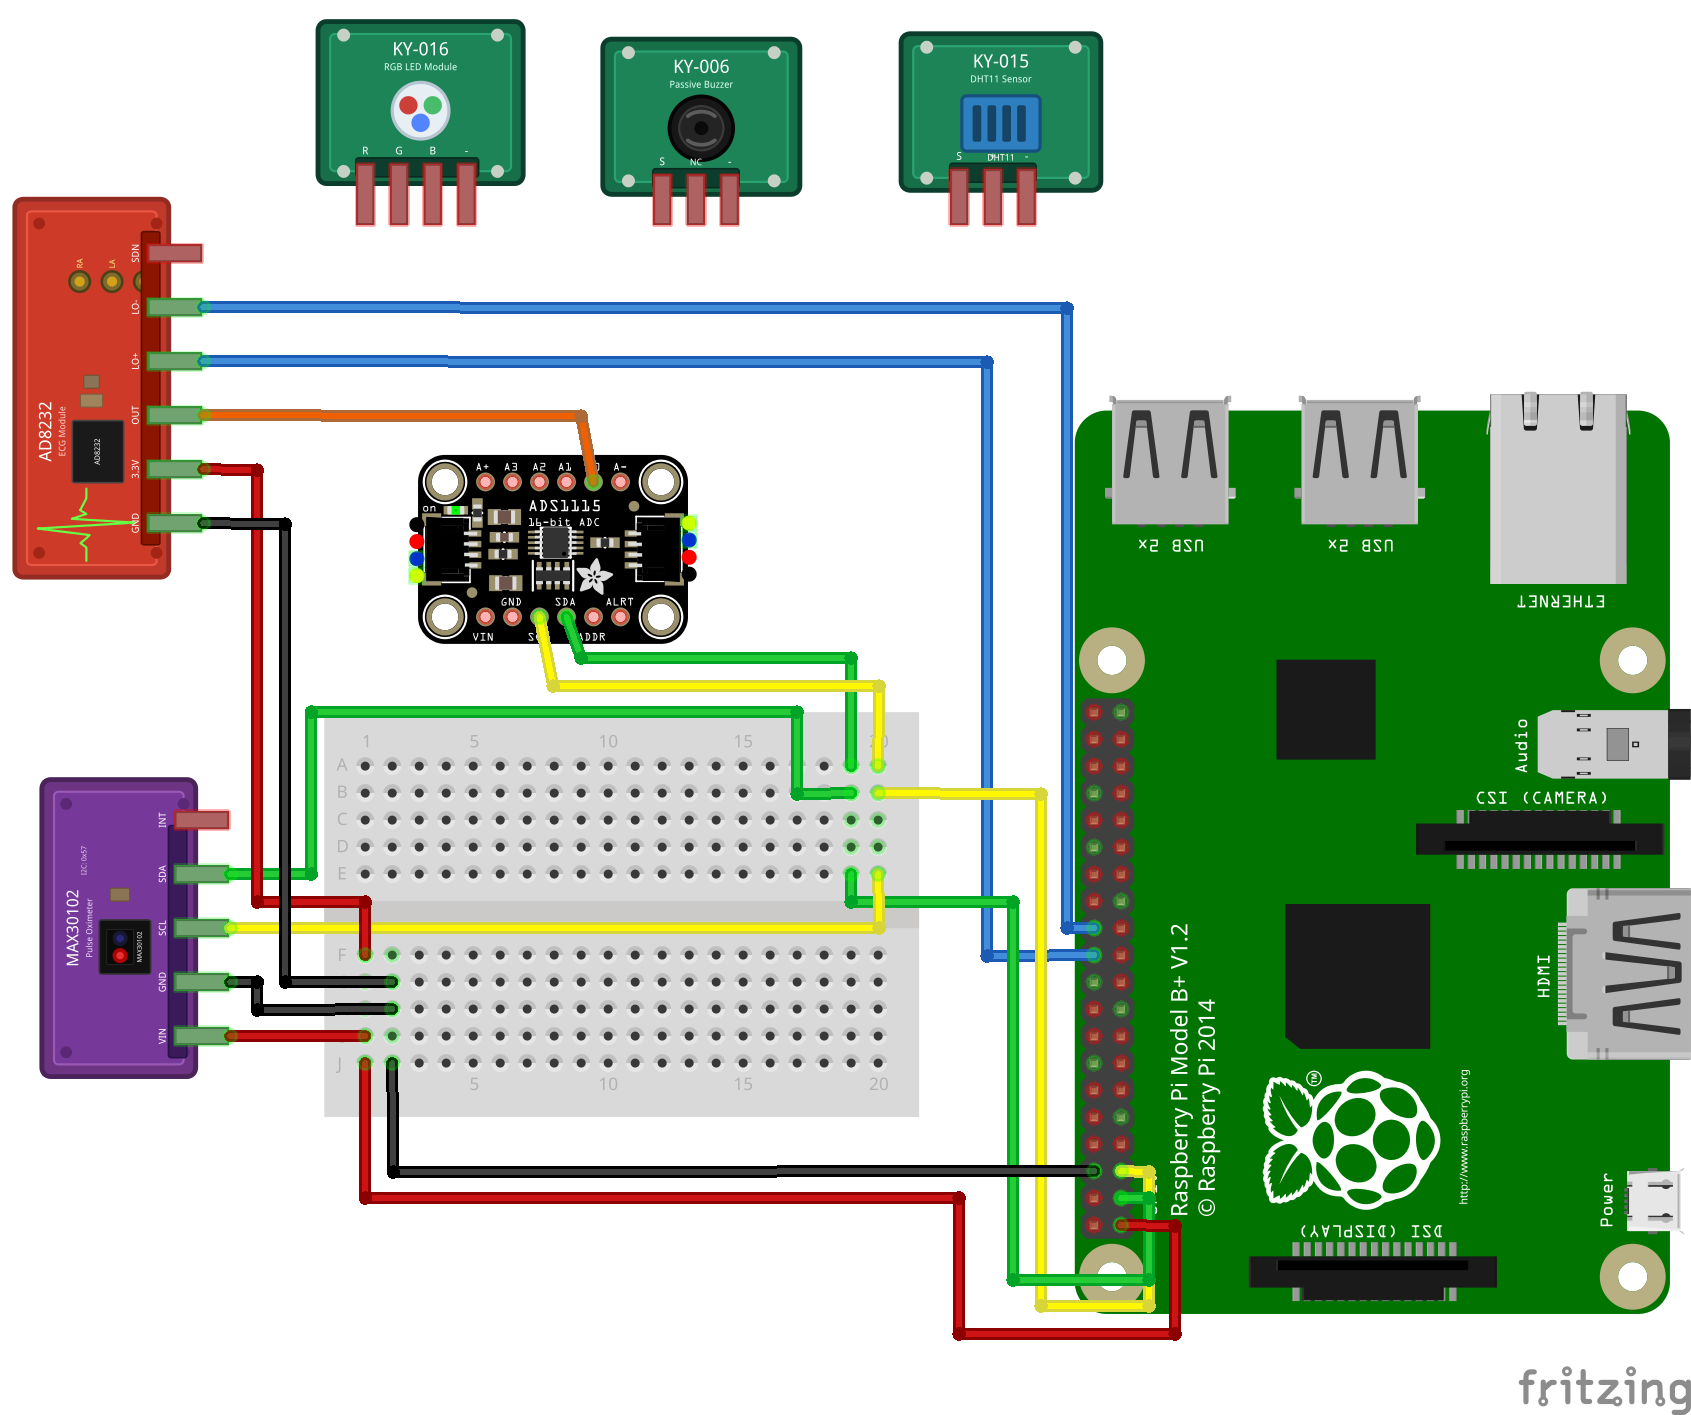
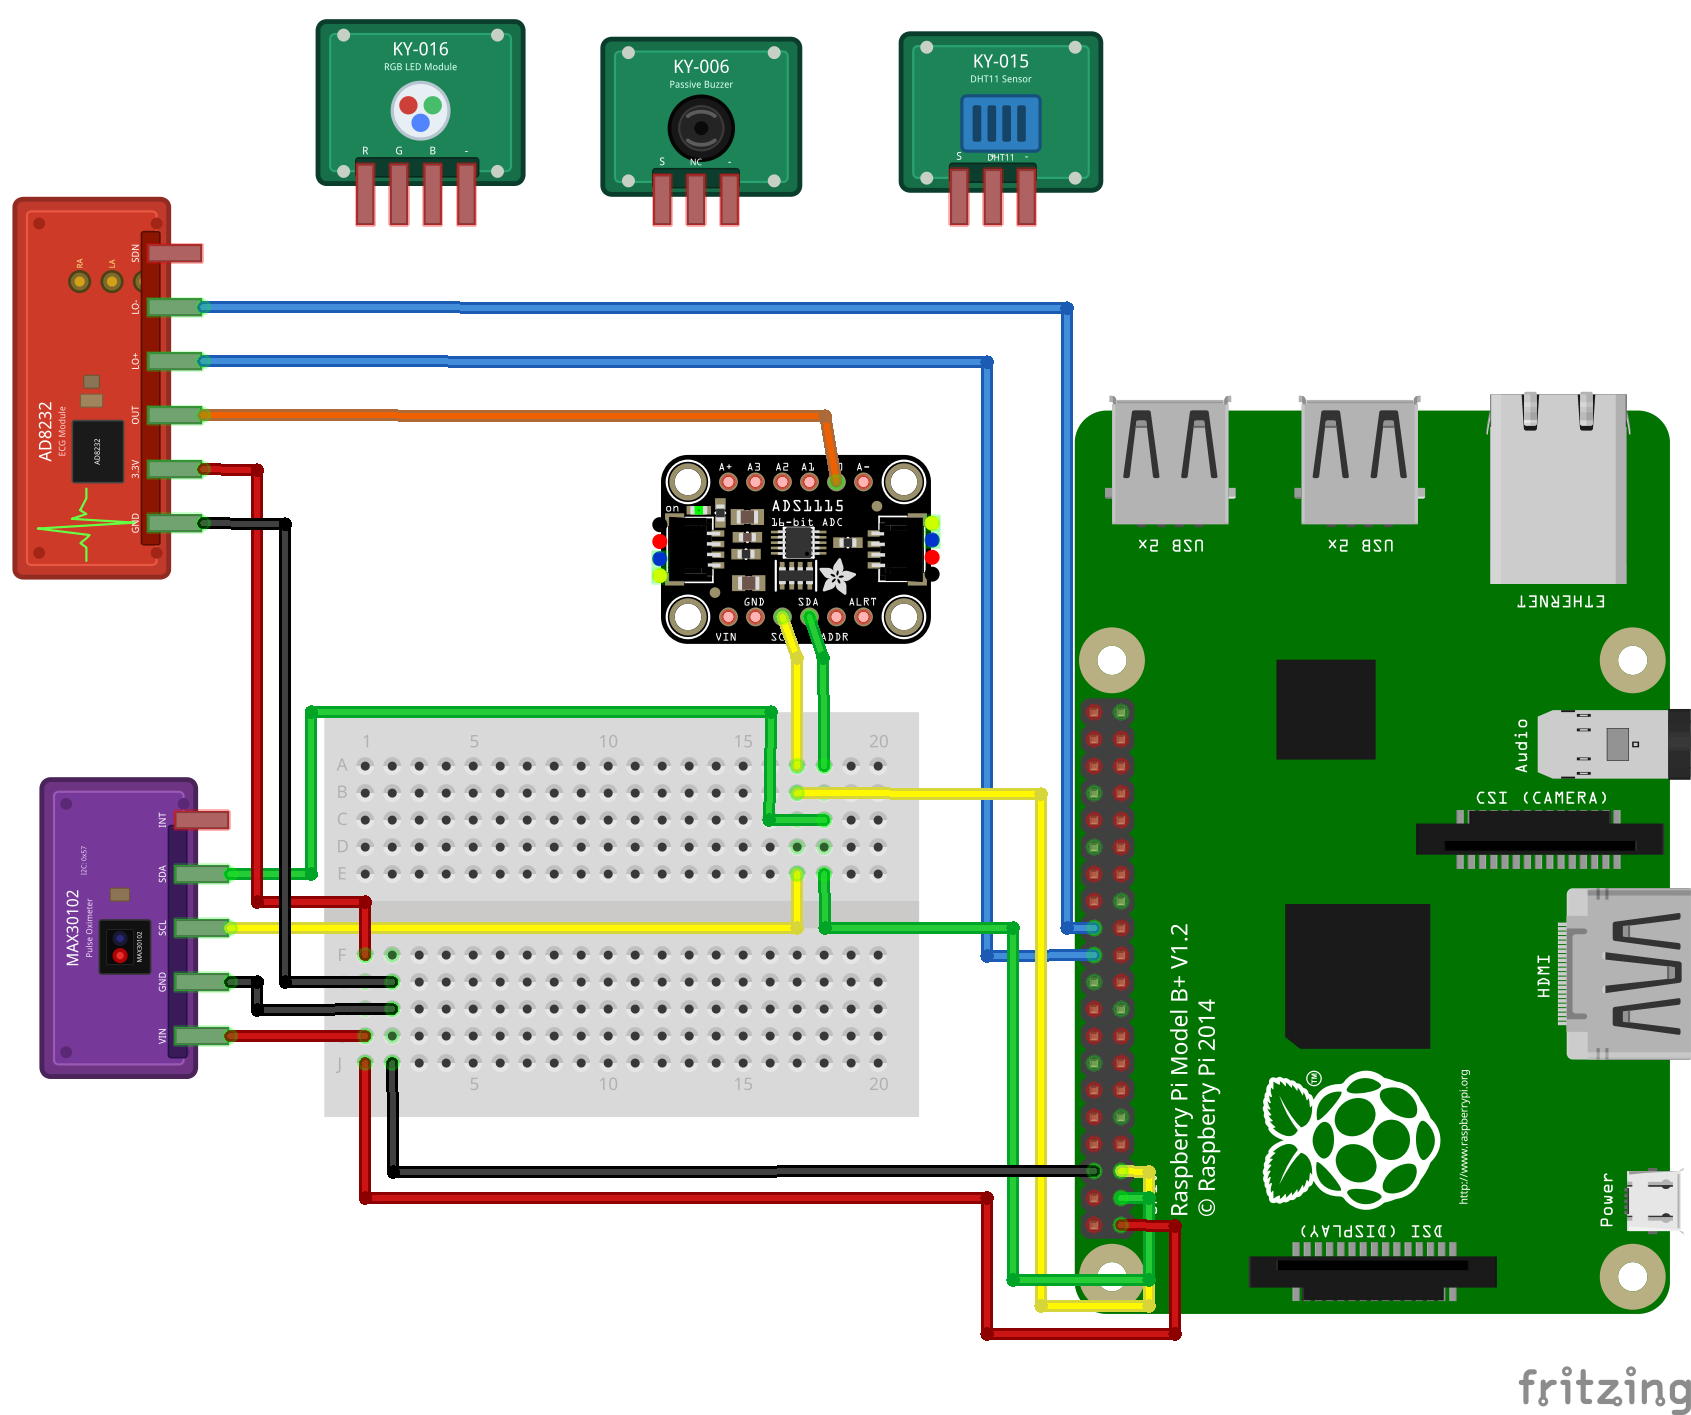
add max30102 oximeter and heartbeat sensor cpp

Changed region(s): [[0.2153, 0.2799, 0.615, 0.6841], [0.5535, 0.8396, 0.5843, 0.964]]

diff --git a/scripts/max30102_oximeter.cpp b/scripts/max30102_oximeter.cpp
@@ -1,0 +1,56 @@
+#include <Wire.h>
+#include "MAX30105.h"
+
+MAX30105 sensor;
+
+void setup() {
+  Serial.begin(115200);
+  Wire.begin();
+
+  if (!sensor.begin(Wire, I2C_SPEED_STANDARD)) {
+    // to make sure the fucking led works
+    pinMode(LED_BUILTIN, OUTPUT);
+    while (1) {
+      digitalWrite(LED_BUILTIN, HIGH);
+      delay(200);
+      digitalWrite(LED_BUILTIN, LOW);
+      delay(200);
+    }
+  }
+
+  byte ledBrightness = 0xFF;  // ledddddddd fuck you
+  byte sampleAverage = 4;
+  byte ledMode = 2;           // Red + IR
+  int sampleRate = 100;
+  int pulseWidth = 411;
+  int adcRange = 16384;
+
+  sensor.setup(
+    ledBrightness,
+    sampleAverage,
+    ledMode,
+    sampleRate,
+    pulseWidth,
+    adcRange
+  );
+
+  sensor.setPulseAmplitudeRed(0xFF);
+  sensor.setPulseAmplitudeIR(0xFF);
+  sensor.setPulseAmplitudeGreen(0);
+
+  delay(1000);
+}
+
+void loop() {
+  long ir = sensor.getIR();
+  long red = sensor.getRed();
+
+  // Serial Plotter-compatible format for Arduino 
+  Serial.print("IR:");
+  Serial.print(ir);
+  Serial.print("\t");
+  Serial.print("RED:");
+  Serial.println(red);
+
+  delay(20);
+}